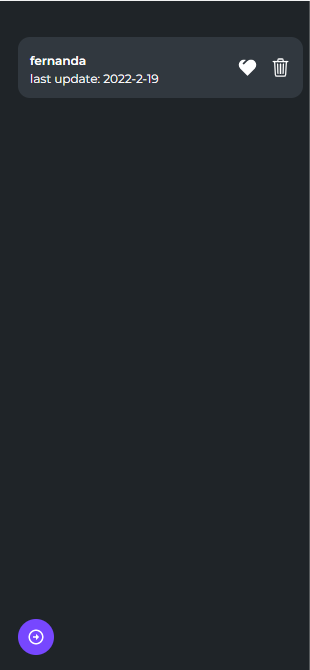
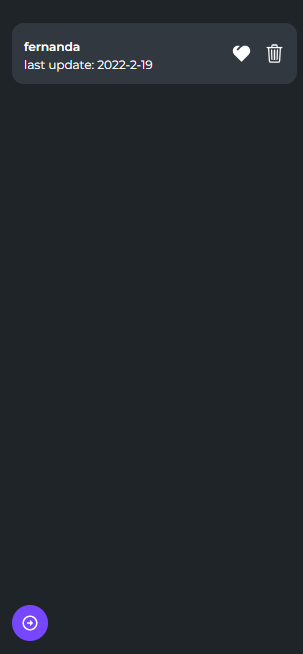
fix: update img organization on readme

diff --git a/README.md b/README.md
@@ -19,14 +19,14 @@
 
 ## Desktop 💻
 <p align="center">
-    <img src="./.github/assets/file-list.png" width="400px">
-    <img src="./.github/assets/add-file.png" width="400px">
+    <img src="./.github/assets/file-list.png" width="300px">
+    <img src="./.github/assets/add-file.png" width="300px">
 </p>
 
 ## Mobile 📱
 <p align="center">
-    <img src="./.github/assets/file-list-mobile.png" height="400px">
-    <img src="./.github/assets/file-list-likes.png" height="400px">
+    <img src="./.github/assets/file-list-mobile.png" height="200px">
+    <img src="./.github/assets/file-list-likes.png" height="200px">
 </p>
 
 
